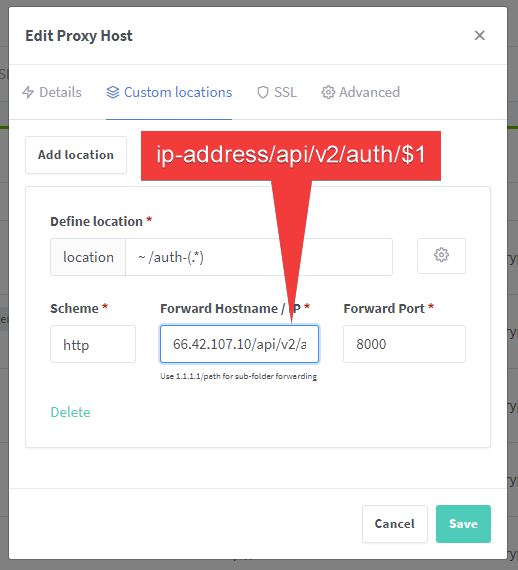
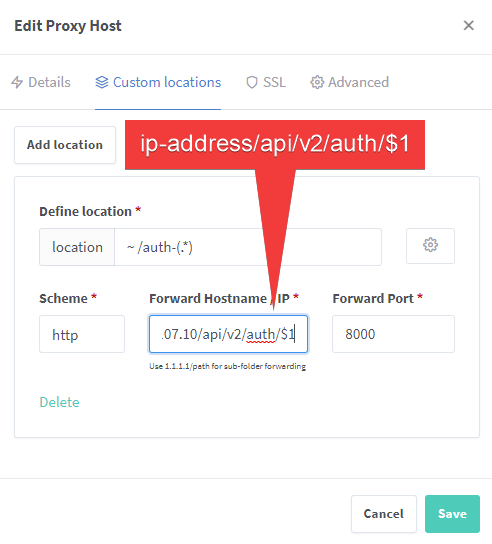
GitBook: [master] 52 pages and 8 assets modified

diff --git a/features/server-authentication/nginx-server-authentication.md b/features/server-authentication/nginx-server-authentication.md
@@ -103,7 +103,7 @@ location: ~ /organizr-auth/(.*)
 Forward Hostname/IP: ip-address/api/v2/auth/$1
 ```
 
-![](../../.gitbook/assets/image%20%2870%29.png)
+![](../../.gitbook/assets/image%20%2873%29.png)
 
 Modify the proxy host configuration for the service you want ServerAuth for. Modifications are needed in the Advanced section AND the Custom locations section.  Example is a ServerAuth setup for Sonarr \(as a subdomain\):
 
@@ -141,5 +141,5 @@ Only change the IP Address in this URL & Don't forget to change the PORT to matc
 organizr-ip-address/api/v2/auth/$1
 ```
 
-![](../../.gitbook/assets/image%20%2868%29.png)
+![](../../.gitbook/assets/image%20%2866%29.png)
 
